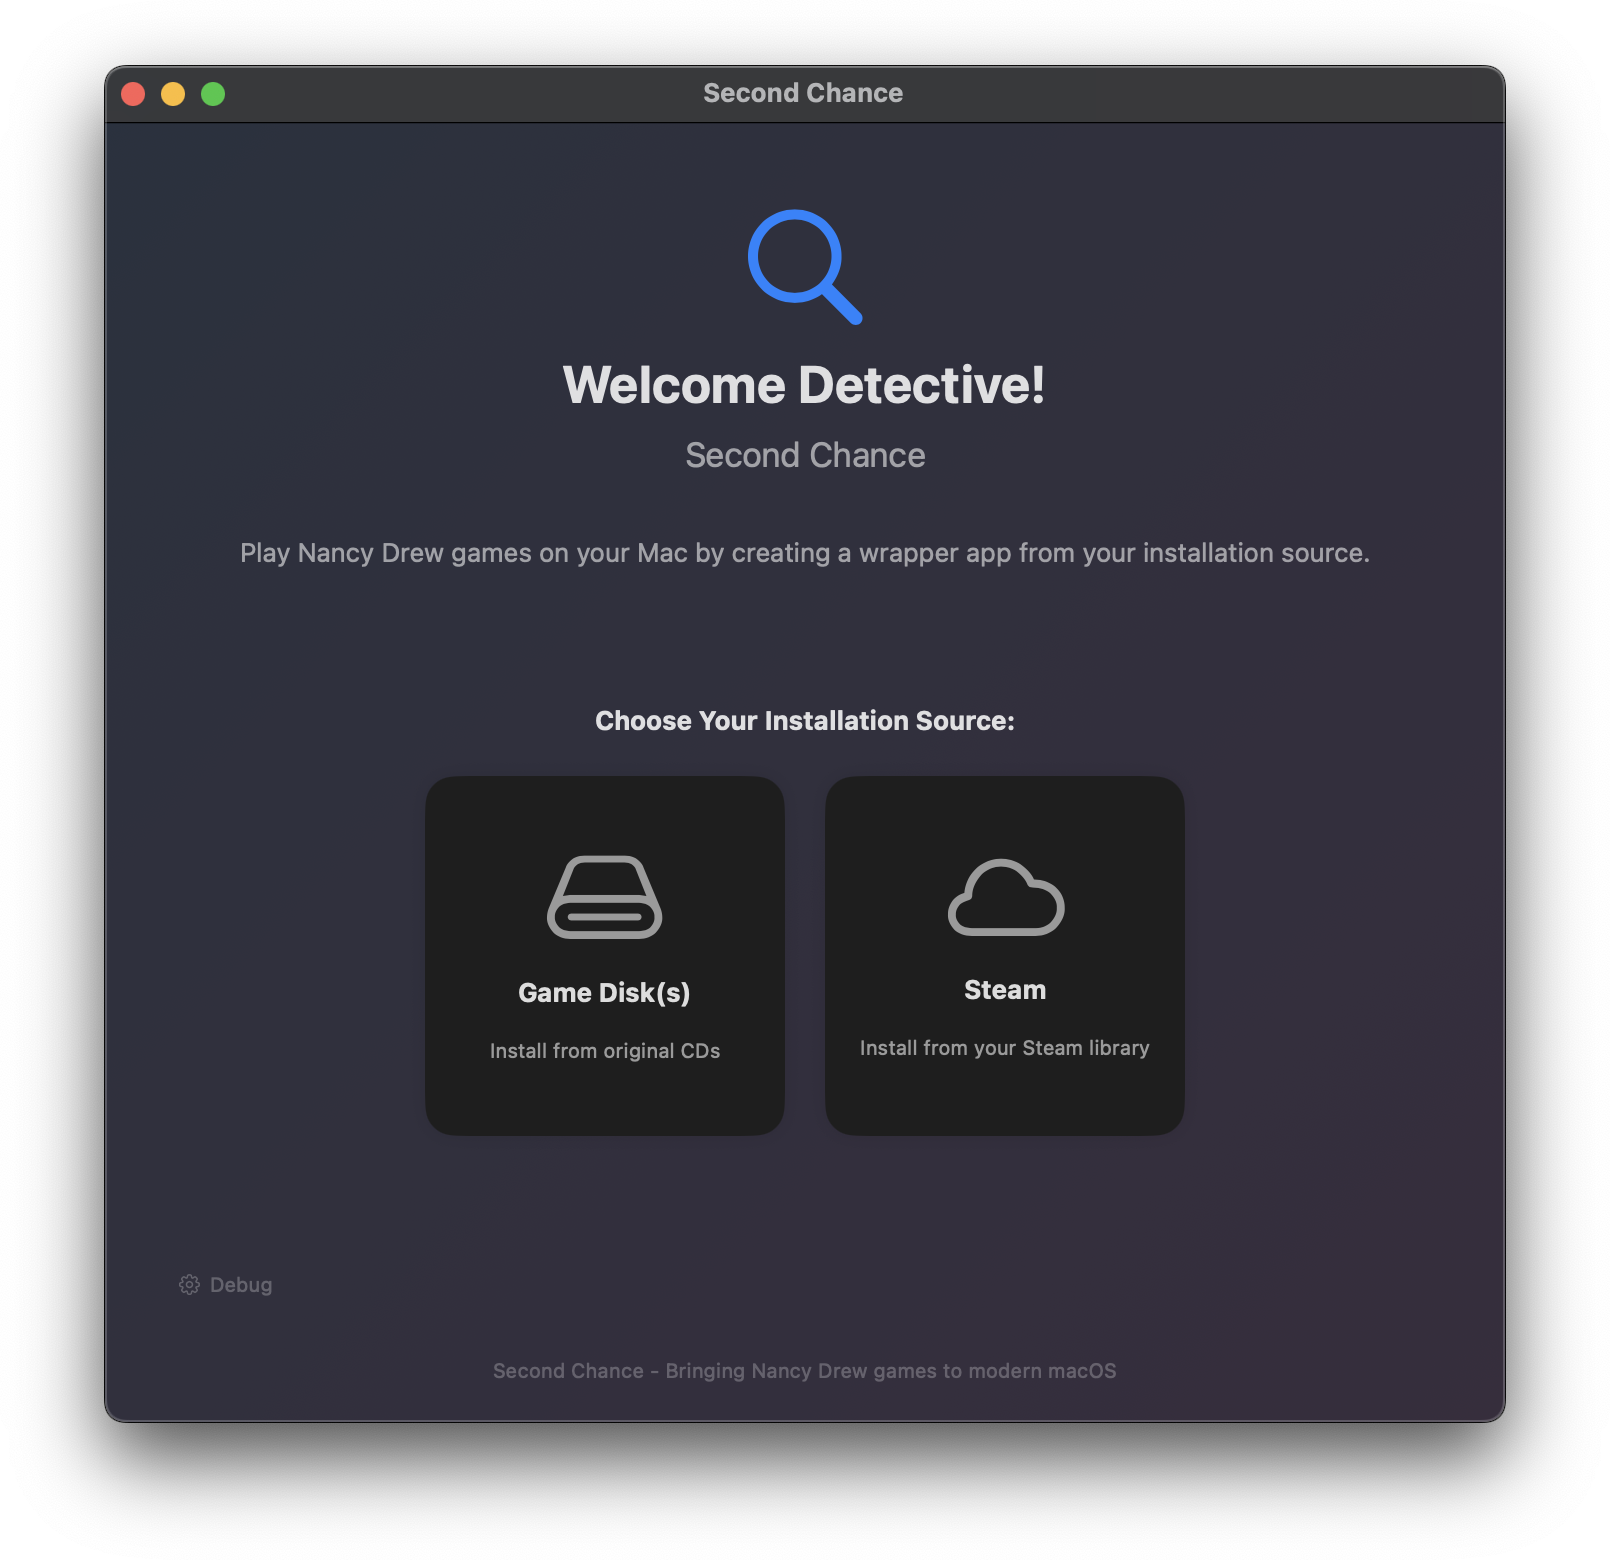
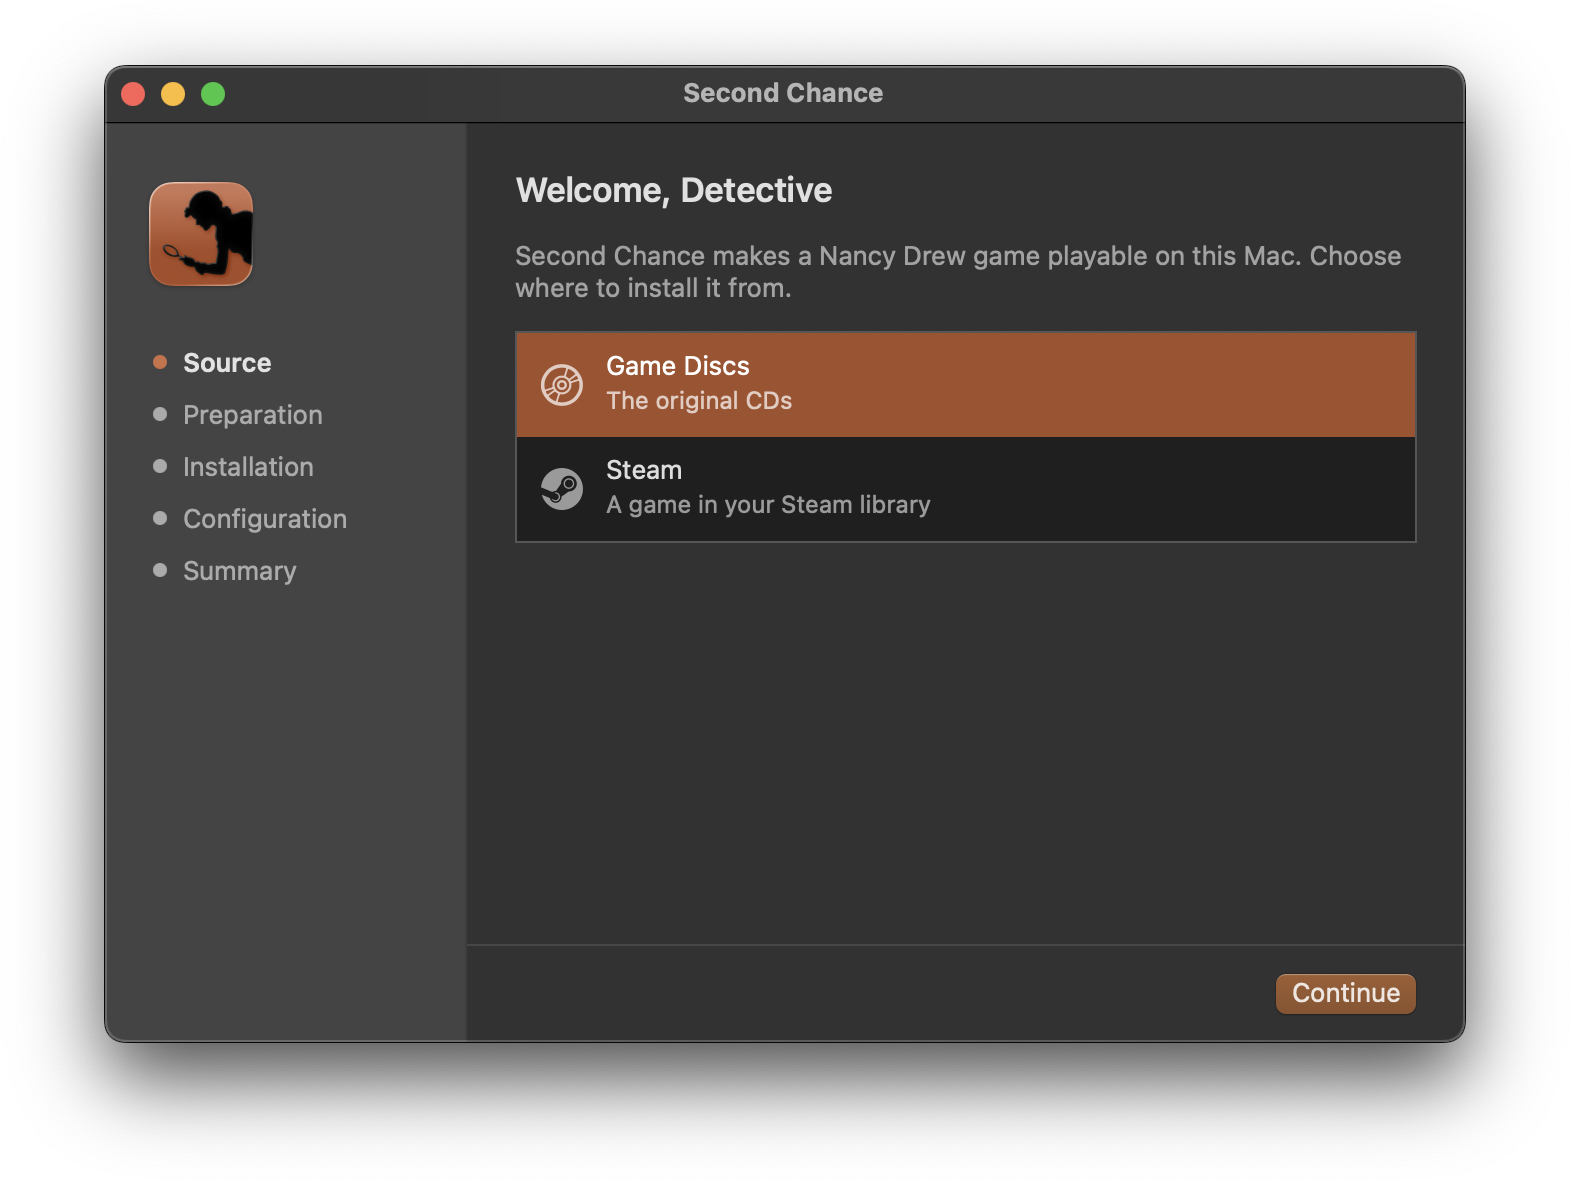
docs: retake the README screenshots of the redesigned window

Changed region(s): [[0.0624, 0.0305, 0.9363, 0.9763], [0.2497, 0.4881, 0.4369, 0.7322], [0.593, 0.5492, 0.6554, 0.6407]]

diff --git a/docs/dev-cli.md b/docs/dev-cli.md
@@ -91,7 +91,7 @@ works.
 can follow the app's design. It runs the app once per appearance with
 `SECOND_CHANCE_SCREENSHOT=<path>` and `SECOND_CHANCE_SCREENSHOT_APPEARANCE`
 (`light` or `dark`). The app (`ReadmeScreenshot`) sets that appearance before
-any window draws, resizes its window to the default 700×650, waits for it to
+any window draws, sets its window to its fixed 680×460, waits for it to
 come on screen, and captures it with ScreenCaptureKit, shadow included. Then it
 writes the PNG and quits. A process may capture its own windows, so this needs
 no Screen Recording permission. The README shows whichever picture matches the
